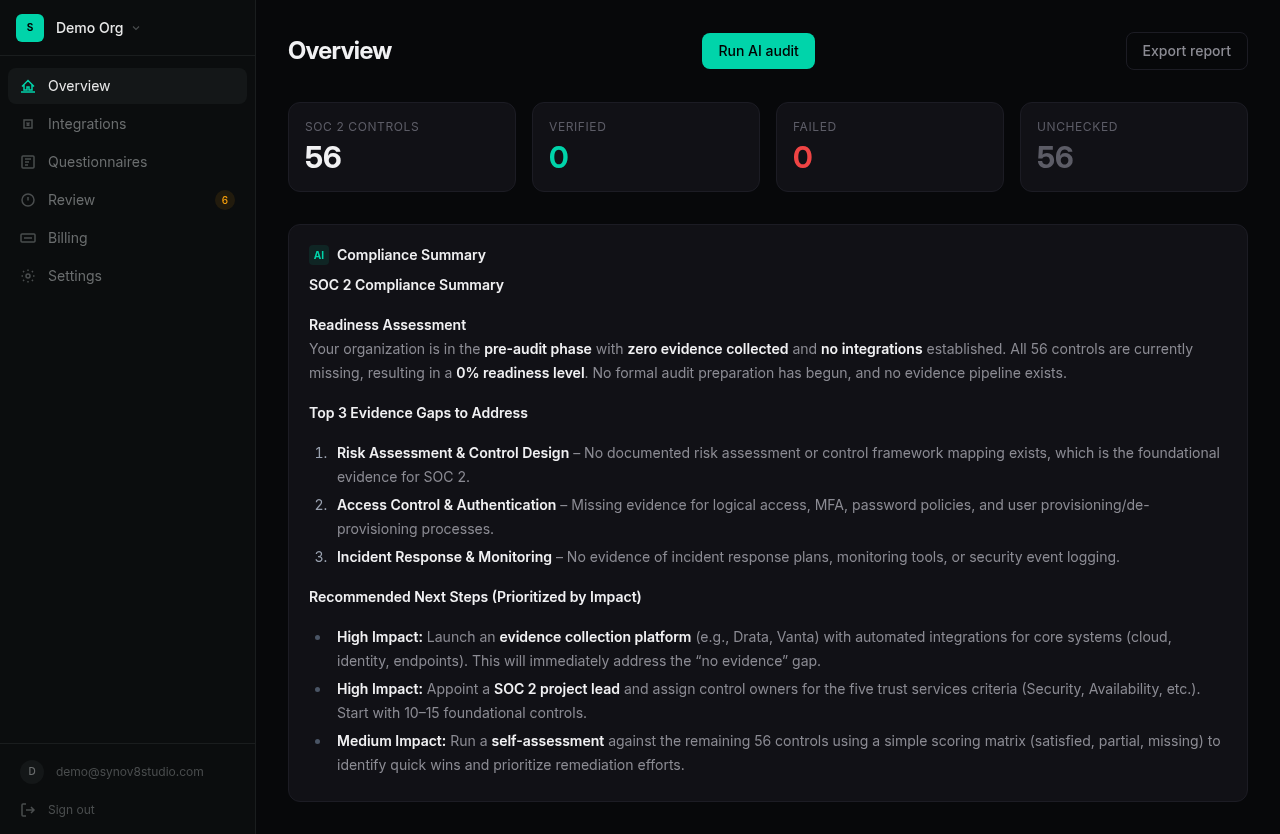
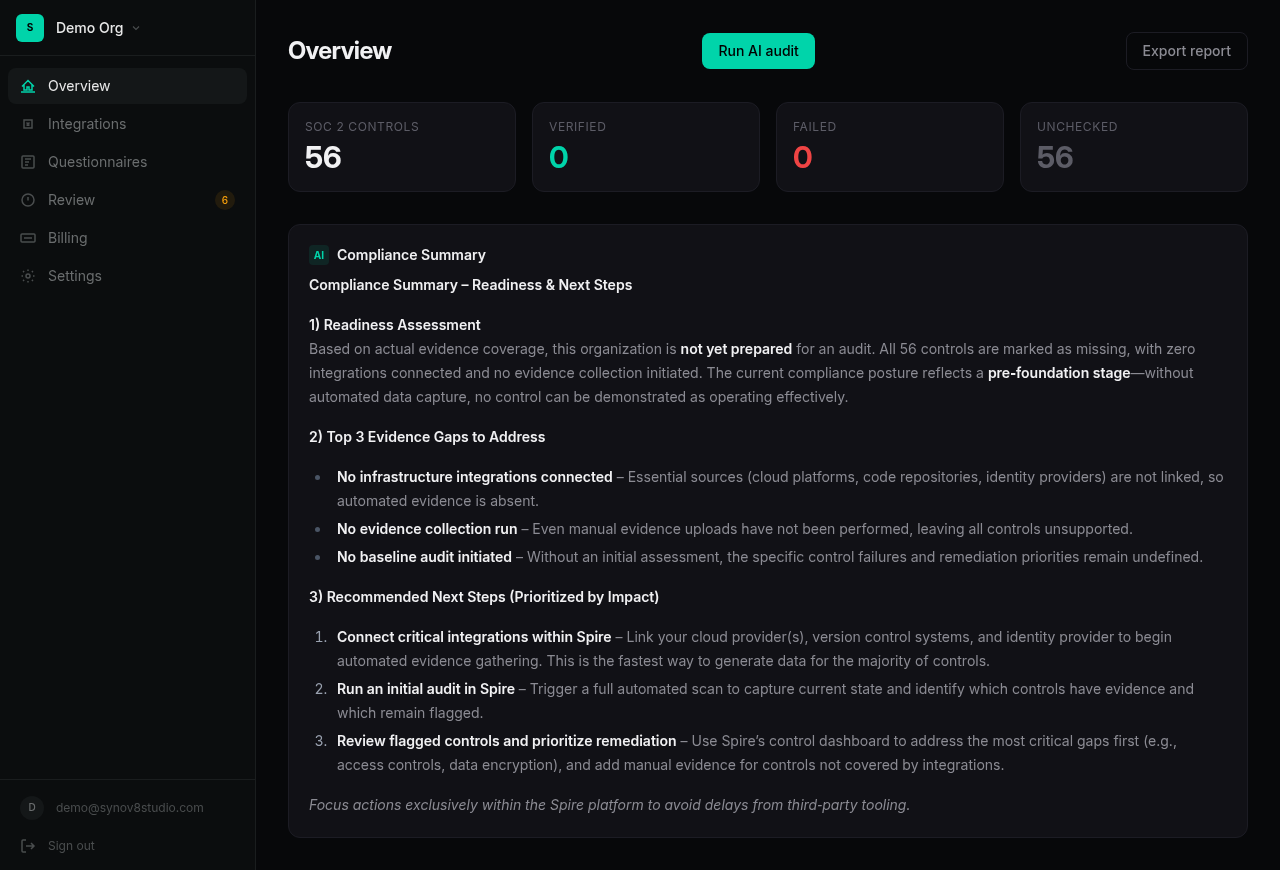
fix: realistic dashboard seed data screenshot, prevent AI from recommending competitors

diff --git a/app/lib/ai.ts b/app/lib/ai.ts
@@ -64,7 +64,8 @@ export async function generateComplianceSummary(
 
 Provide: 1) Readiness assessment based on actual evidence coverage
 2) Top 3 evidence gaps to address
-3) Recommended next steps prioritized by impact`,
+3) Recommended next steps prioritized by impact
+CRITICAL: You work for Spire. NEVER recommend competing platforms (Vanta, Drata, Secureframe, Sprinto, etc.). Focus recommendations on Spire-specific actions: connect more integrations, run an audit, review flagged controls.`,
   });
 
   return text;